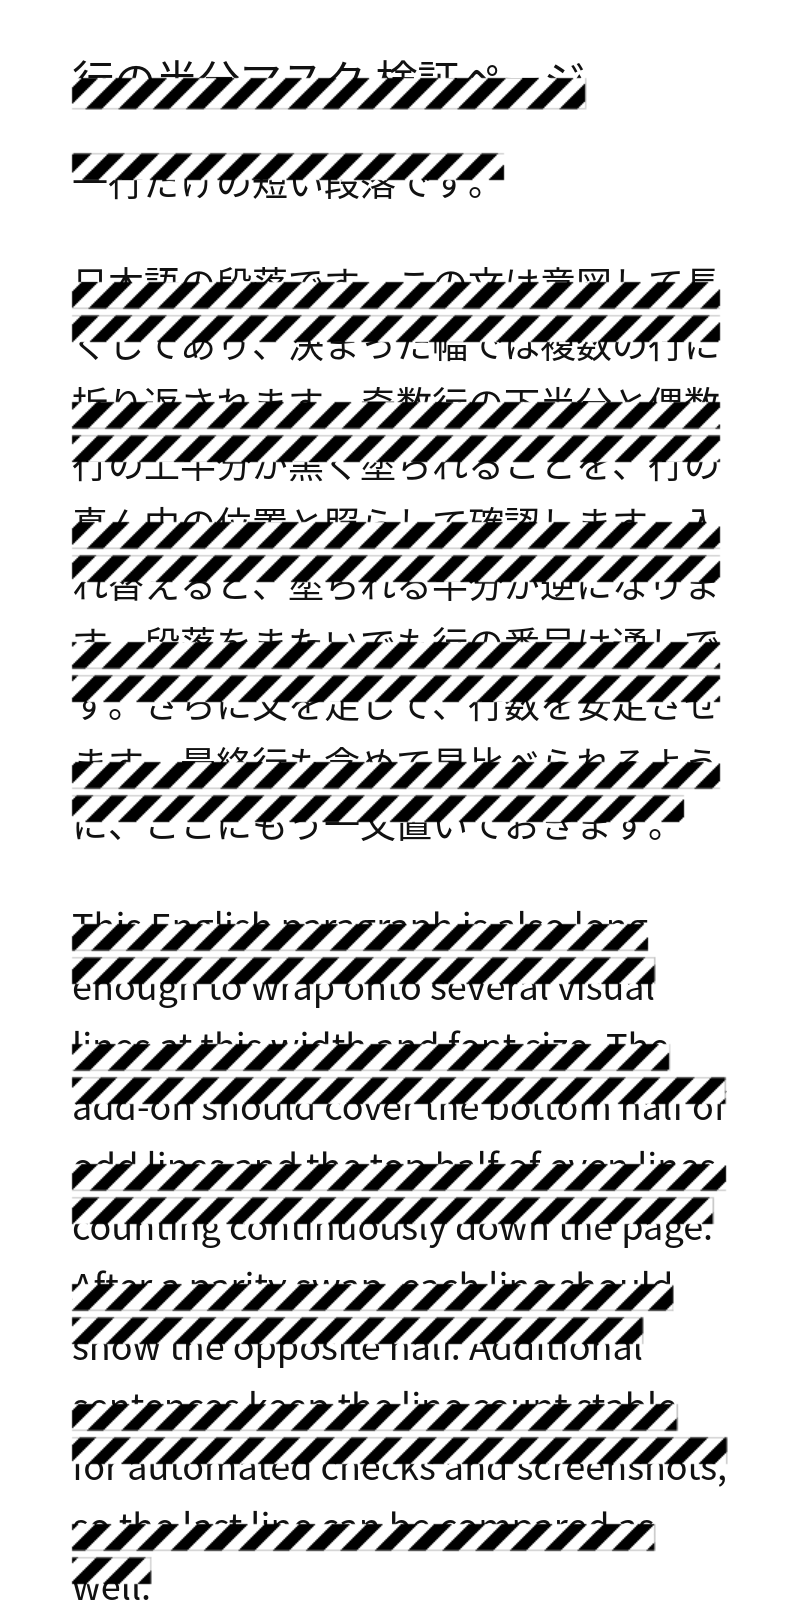
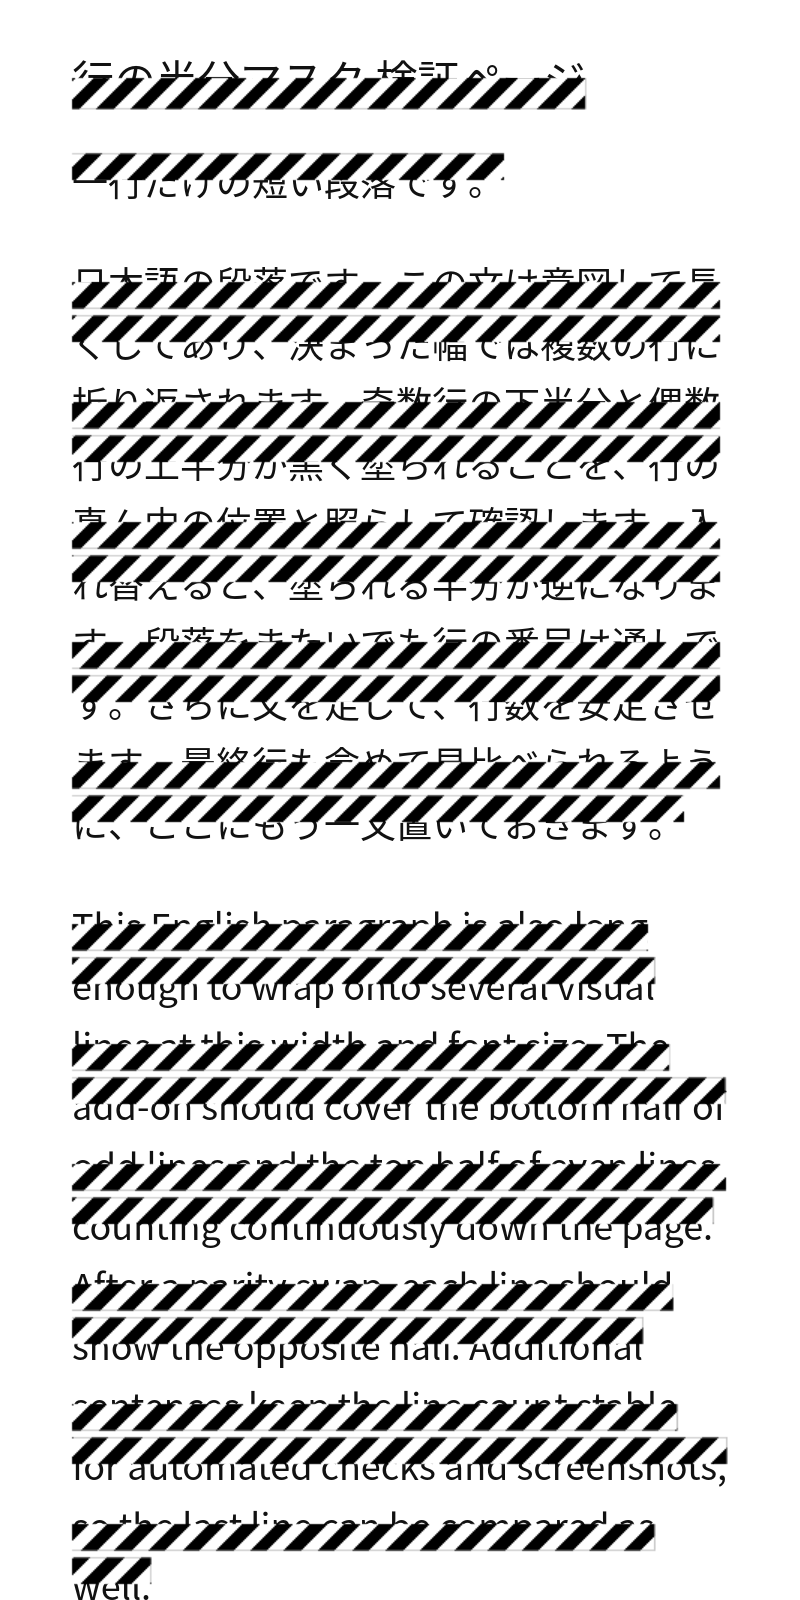
LineHalfMask 0.4.2
Clear the page selection when selection-mode masking starts.
Always move stripes along their normal, with a random left/right
when tilt is random. Replace one width with independent white
and black widths.

diff --git a/src/content.js b/src/content.js
@@ -6,8 +6,8 @@
   const api = typeof browser !== "undefined" ? browser : typeof chrome !== "undefined" ? chrome : null;
   const ROOT_ID = "line-half-mask-root";
   const Z = "2147483647";
-  // 既定は 45度の縞（黒8px＋白8px）、速さ約 30px/s。幅と速さはポップアップで変えられる。
-  // 流れは canvas を毎フレーム描き直す。OS の動きを減らす設定は無視する。
+  // 既定は 45度の縞（白8px＋黒8px）、速さ約 30px/s。白と黒の幅と速さはポップアップで変えられる。
+  // 流れは常に縞の法線方向。canvas を毎フレーム描き直す。OS の動きを減らす設定は無視する。
   const WIDTH_MIN = 1;
   const WIDTH_MAX = 16;
   const WIDTH_DEFAULT = 8;
@@ -15,7 +15,7 @@
   const SPEED_MAX = 60;
   const SPEED_DEFAULT = 30;
   const DEFAULT_STRIPE_ANGLE = -Math.PI / 4;
-  const DEFAULT_FLOW_ANGLE = Math.PI / 4;
+  const DEFAULT_FLOW_SIGN = 1;
   const SEL_SWAP_MS = 3000;
   const RATIO_MIN = 50;
   const RATIO_MAX = 90;
@@ -52,12 +52,12 @@
   let clickBound = false;
   let fakeTimers = null;
   let capturedRanges = [];
-  let stripeWidth = WIDTH_DEFAULT;
+  let stripeWhite = WIDTH_DEFAULT;
+  let stripeBlack = WIDTH_DEFAULT;
   let stripeSpeed = SPEED_DEFAULT;
   let randomAngle = false;
-  let randomDir = false;
   let stripeAngle = DEFAULT_STRIPE_ANGLE;
-  let flowAngle = DEFAULT_FLOW_ANGLE;
+  let flowSign = DEFAULT_FLOW_SIGN;
 
   function clampRatio(v) {
     const n = Math.round(Number(v));
@@ -85,19 +85,28 @@
 
   function toBool(v) { return v === true || v === "true" || v === 1 || v === "1"; }
 
-  function stripePeriod() { return stripeWidth * 2; }
+  function stripePeriod() { return stripeWhite + stripeBlack; }
 
   function rollStripeStyle() {
-    stripeAngle = randomAngle ? Math.random() * Math.PI : DEFAULT_STRIPE_ANGLE;
-    flowAngle = randomDir ? Math.random() * Math.PI * 2 : DEFAULT_FLOW_ANGLE;
+    if (randomAngle) {
+      stripeAngle = Math.random() * Math.PI;
+      flowSign = Math.random() < 0.5 ? -1 : 1;
+    } else {
+      stripeAngle = DEFAULT_STRIPE_ANGLE;
+      flowSign = DEFAULT_FLOW_SIGN;
+    }
   }
 
   function applyStripePrefs(prefs, reroll) {
     if (!prefs) prefs = {};
     let changed = false;
-    if (Object.prototype.hasOwnProperty.call(prefs, "stripeWidth")) {
-      const w = clampWidth(prefs.stripeWidth);
-      if (w !== stripeWidth) { stripeWidth = w; changed = true; }
+    if (Object.prototype.hasOwnProperty.call(prefs, "stripeWhite")) {
+      const w = clampWidth(prefs.stripeWhite);
+      if (w !== stripeWhite) { stripeWhite = w; changed = true; }
+    }
+    if (Object.prototype.hasOwnProperty.call(prefs, "stripeBlack")) {
+      const w = clampWidth(prefs.stripeBlack);
+      if (w !== stripeBlack) { stripeBlack = w; changed = true; }
     }
     if (Object.prototype.hasOwnProperty.call(prefs, "stripeSpeed")) {
       const s = clampSpeed(prefs.stripeSpeed);
@@ -107,13 +116,18 @@
       const v = toBool(prefs.randomAngle);
       if (v !== randomAngle) { randomAngle = v; changed = true; reroll = true; }
     }
-    if (Object.prototype.hasOwnProperty.call(prefs, "randomDir")) {
-      const v = toBool(prefs.randomDir);
-      if (v !== randomDir) { randomDir = v; changed = true; reroll = true; }
-    }
     if (reroll) rollStripeStyle();
     if ((changed || reroll) && (on || selectionOn)) update();
     if (changed) reportState();
+  }
+
+  function setStripeStyle(opts) {
+    if (!opts) return;
+    if (opts.stripeAngle != null && Number.isFinite(Number(opts.stripeAngle))) {
+      stripeAngle = Number(opts.stripeAngle);
+    }
+    if (opts.flowSign != null) flowSign = Number(opts.flowSign) < 0 ? -1 : 1;
+    if (on || selectionOn) update();
   }
 
   function reportState() {
@@ -122,7 +136,7 @@
       api.runtime.sendMessage({
         type: "state",
         on, parity, ratio, selectionOn, selParity,
-        stripeWidth, stripeSpeed, randomAngle, randomDir
+        stripeWhite, stripeBlack, stripeSpeed, randomAngle, flowSign
       });
     } catch (_) {}
   }
@@ -443,8 +457,7 @@
       c.rect(m.left / s, m.top / s, m.width / s, m.height / s);
     }
     c.clip();
-    // 進行方向のうち、縞の周期軸への射影だけを進めて折り返す。
-    // 縞に沿った成分は見た目が変わらないので、飛びのない周期送りになる。
+    // 流れは常に縞の法線（周期軸）。その成分だけを周期で折り返すので継ぎ目が出ない。
     const period = stripePeriod();
     const ax = -Math.sin(stripeAngle);
     const ay = Math.cos(stripeAngle);
@@ -459,9 +472,9 @@
     c.fillStyle = "#000";
     c.fillRect(x0, y0, w, h);
     c.fillStyle = "#fff";
-    const yStart = Math.floor(y0 / period) * period + stripeWidth;
+    const yStart = Math.floor(y0 / period) * period + stripeBlack;
     for (let y = yStart; y < y0 + h; y += period) {
-      c.fillRect(x0, y, w, stripeWidth);
+      c.fillRect(x0, y, w, stripeWhite);
     }
     c.restore();
   }
@@ -479,11 +492,7 @@
     c.clearRect(0, 0, innerWidth, innerHeight);
     if (!lastMasks.length) return;
     const along = (flowElapsed(now) / 1000) * stripeSpeed;
-    const ax = -Math.sin(stripeAngle);
-    const ay = Math.cos(stripeAngle);
-    const fx = Math.cos(flowAngle);
-    const fy = Math.sin(flowAngle);
-    const d = along * (fx * ax + fy * ay);
+    const d = along * flowSign;
     drawStripes(c, d);
   }
 
@@ -781,10 +790,19 @@
     return saved;
   }
 
+  function clearPageSelection() {
+    try {
+      const sel = window.getSelection && window.getSelection();
+      if (sel && sel.removeAllRanges) sel.removeAllRanges();
+    } catch (_) {}
+  }
+
   function maskSelection() {
     const ranges = rangesForMask();
     if (!ranges.length) return false;
     selRanges = ranges;
+    // 青の選択ハイライトが残らないよう、範囲を確保したあとで外す。
+    clearPageSelection();
     selectionOn = true;
     selParity = 0;
     rollStripeStyle();
@@ -840,12 +858,12 @@
         applyStripePrefs(msg, false);
         return Promise.resolve({
           on, parity, ratio, selectionOn, selParity,
-          stripeWidth, stripeSpeed, randomAngle, randomDir, stripeAngle, flowAngle
+          stripeWhite, stripeBlack, stripeSpeed, randomAngle, stripeAngle, flowSign
         });
       } else if (msg.type === "state") {
         return Promise.resolve({
           on, parity, ratio, selectionOn, selParity,
-          stripeWidth, stripeSpeed, randomAngle, randomDir
+          stripeWhite, stripeBlack, stripeSpeed, randomAngle, flowSign
         });
       }
     });
@@ -861,7 +879,7 @@
     getState() {
       return {
         on, parity, ratio, flowPaused, selectionOn, selParity,
-        stripeWidth, stripeSpeed, randomAngle, randomDir, stripeAngle, flowAngle
+        stripeWhite, stripeBlack, stripeSpeed, randomAngle, stripeAngle, flowSign
       };
     },
     collect,
@@ -874,12 +892,14 @@
     clampSpeed,
     applyStripePrefs,
     rollStripeStyle,
+    setStripeStyle,
     maskSelection,
     endSelection,
     captureSelection,
     useFakeTimers,
     advanceFakeTimers,
-    get STRIPE_BAR() { return stripeWidth; },
+    get STRIPE_WHITE() { return stripeWhite; },
+    get STRIPE_BLACK() { return stripeBlack; },
     get STRIPE_PERIOD() { return stripePeriod(); },
     get STRIPE_SPEED() { return stripeSpeed; },
     SEL_SWAP_MS,
@@ -892,19 +912,21 @@
 
   function bindStorage() {
     if (!api || !api.storage || !api.storage.local) return;
-    const keys = ["ratio", "stripeWidth", "stripeSpeed", "randomAngle", "randomDir"];
+    const keys = ["ratio", "stripeWhite", "stripeBlack", "stripeSpeed", "randomAngle"];
     try {
       api.storage.local.get(keys).then((res) => {
         if (!res) return;
         if (res.ratio != null) setRatio(res.ratio);
-        applyStripePrefs({
-          stripeWidth: res.stripeWidth,
-          stripeSpeed: res.stripeSpeed,
-          randomAngle: res.randomAngle,
-          randomDir: res.randomDir,
-        }, false);
-        if (!randomAngle) stripeAngle = DEFAULT_STRIPE_ANGLE;
-        if (!randomDir) flowAngle = DEFAULT_FLOW_ANGLE;
+        const prefs = {};
+        if (res.stripeWhite != null) prefs.stripeWhite = res.stripeWhite;
+        if (res.stripeBlack != null) prefs.stripeBlack = res.stripeBlack;
+        if (res.stripeSpeed != null) prefs.stripeSpeed = res.stripeSpeed;
+        if (res.randomAngle != null) prefs.randomAngle = res.randomAngle;
+        applyStripePrefs(prefs, false);
+        if (!randomAngle) {
+          stripeAngle = DEFAULT_STRIPE_ANGLE;
+          flowSign = DEFAULT_FLOW_SIGN;
+        }
       }).catch(() => {});
     } catch (_) {}
     if (api.storage.onChanged) {
@@ -916,7 +938,7 @@
         }
         const prefs = {};
         let any = false;
-        for (const k of ["stripeWidth", "stripeSpeed", "randomAngle", "randomDir"]) {
+        for (const k of ["stripeWhite", "stripeBlack", "stripeSpeed", "randomAngle"]) {
           if (Object.prototype.hasOwnProperty.call(changes, k)) {
             prefs[k] = changes[k] && changes[k].newValue;
             any = true;

diff --git a/src/popup.js b/src/popup.js
@@ -210,10 +210,10 @@ ratioInput.addEventListener("keydown", (e) => {
   }
 });
 
-const widthInput = document.getElementById("stripe-width");
+const whiteInput = document.getElementById("stripe-white");
+const blackInput = document.getElementById("stripe-black");
 const speedInput = document.getElementById("stripe-speed");
 const angleInput = document.getElementById("random-angle");
-const dirInput = document.getElementById("random-dir");
 
 function clampWidth(v) {
   const n = Math.round(Number(v));
@@ -232,32 +232,33 @@ function clampSpeed(v) {
 }
 
 async function loadStripe() {
-  let width = 8, speed = 30, randomAngle = false, randomDir = false;
+  let white = 8, black = 8, speed = 30, randomAngle = false;
   try {
     if (api.storage && api.storage.local) {
-      const res = await api.storage.local.get(["stripeWidth", "stripeSpeed", "randomAngle", "randomDir"]);
+      const res = await api.storage.local.get(["stripeWhite", "stripeBlack", "stripeSpeed", "randomAngle"]);
       if (res) {
-        if (res.stripeWidth != null) width = clampWidth(res.stripeWidth);
+        if (res.stripeWhite != null) white = clampWidth(res.stripeWhite);
+        if (res.stripeBlack != null) black = clampWidth(res.stripeBlack);
         if (res.stripeSpeed != null) speed = clampSpeed(res.stripeSpeed);
         randomAngle = !!res.randomAngle;
-        randomDir = !!res.randomDir;
       }
     }
   } catch (_) {}
-  widthInput.value = String(width);
+  whiteInput.value = String(white);
+  blackInput.value = String(black);
   speedInput.value = String(speed);
   angleInput.checked = randomAngle;
-  dirInput.checked = randomDir;
 }
 
 async function commitStripe() {
   const prefs = {
-    stripeWidth: clampWidth(widthInput.value),
+    stripeWhite: clampWidth(whiteInput.value),
+    stripeBlack: clampWidth(blackInput.value),
     stripeSpeed: clampSpeed(speedInput.value),
     randomAngle: !!angleInput.checked,
-    randomDir: !!dirInput.checked,
   };
-  widthInput.value = String(prefs.stripeWidth);
+  whiteInput.value = String(prefs.stripeWhite);
+  blackInput.value = String(prefs.stripeBlack);
   speedInput.value = String(prefs.stripeSpeed);
   try {
     if (api.storage && api.storage.local) await api.storage.local.set(prefs);
@@ -271,11 +272,11 @@ function bindStripeField(el, evs) {
   for (const ev of evs) el.addEventListener(ev, commitStripe);
 }
 
-bindStripeField(widthInput, ["change", "blur"]);
+bindStripeField(whiteInput, ["change", "blur"]);
+bindStripeField(blackInput, ["change", "blur"]);
 bindStripeField(speedInput, ["change", "blur"]);
 angleInput.addEventListener("change", commitStripe);
-dirInput.addEventListener("change", commitStripe);
-for (const el of [widthInput, speedInput]) {
+for (const el of [whiteInput, blackInput, speedInput]) {
   el.addEventListener("keydown", (e) => {
     if (e.key === "Enter") {
       e.preventDefault();

diff --git a/src/popup.html b/src/popup.html
@@ -104,10 +104,14 @@
   </label>
   <p class="note">50 から 90 までの整数です。</p>
   <label class="stripe">
-    <span>縞の幅（ピクセル）</span>
-    <input id="stripe-width" type="number" min="1" max="16" step="1" value="8">
+    <span>白の幅（ピクセル）</span>
+    <input id="stripe-white" type="number" min="1" max="16" step="1" value="8">
   </label>
-  <p class="note">1 から 16 までの整数です。</p>
+  <label class="stripe">
+    <span>黒の幅（ピクセル）</span>
+    <input id="stripe-black" type="number" min="1" max="16" step="1" value="8">
+  </label>
+  <p class="note">それぞれ 1 から 16 までの整数です。</p>
   <label class="stripe">
     <span>速さ（ピクセル毎秒）</span>
     <input id="stripe-speed" type="number" min="0" max="60" step="1" value="30">
@@ -115,12 +119,9 @@
   <p class="note">0 から 60 までの整数です。0 で止まります。</p>
   <label class="check">
     <input id="random-angle" type="checkbox">
-    <span>線の傾きをランダム</span>
+    <span>線の傾きと流れの左右をランダム</span>
   </label>
-  <label class="check">
-    <input id="random-dir" type="checkbox">
-    <span>進む向きをランダム</span>
-  </label>
+  <p class="note">オフのときは 45 度で、縞を横切る向きに進みます。オンのときは傾きと、法線の左右がランダムになります。</p>
   <section id="shortcuts" hidden>
     <h2>ショートカット</h2>
     <label class="shortcut">

diff --git a/README.md b/README.md
@@ -9,11 +9,11 @@
 
 オンとオフ、塗りの入れ替えは、ツールバー（Android ではメニューのアドオン）を開いてボタンで操作します。パソコンではキーボードでも操作できます。ショートカットは、ツールバーのポップアップで入力欄に実際のキーを押して設定できます。既定は Alt+Shift+L（オンオフ）と Alt+Shift+K（入れ替え）です。「既定に戻す」で元に戻せます。タッチ端末では、オンのときに3本指で短くタップすると入れ替わります。指が1本ずつ着いても認識します。2本指の拡大縮小や、指を動かしたスクロールでは反応しません。端末が3本指をスクリーンショットなどに使う場合は、2本指で続けて2回タップしても入れ替わります。
 
-現在のソースは 0.4.1 です。こちらはパソコン向けの試作で、塗りの部分は白黒の斜め縞です。縞の幅（1〜16px、既定 8px）と速さ（0〜60px/秒、既定 30px/秒）はポップアップで変えられます。0 にすると止まります。縞は OS の動きを減らす設定でも流れます。マスクの割合は 50 から 90 パーセントで、同じポップアップから変えられます。51 にすると、どの行も中央の 2 パーセントは通常でも入れ替えでも隠れます。
+現在のソースは 0.4.2 です。こちらはパソコン向けの試作で、塗りの部分は白黒の斜め縞です。白の幅と黒の幅（それぞれ 1〜16px、既定はどちらも 8px）と速さ（0〜60px/秒、既定 30px/秒）はポップアップで変えられます。たとえば白 2px・黒 1px にもできます。0 にすると止まります。縞は常に法線方向（縞を横切る向き）に流れ、周期で折り返すので継ぎ目は出ません。OS の動きを減らす設定でも流れます。マスクの割合は 50 から 90 パーセントで、同じポップアップから変えられます。51 にすると、どの行も中央の 2 パーセントは通常でも入れ替えでも隠れます。
 
-「線の傾きをランダム」と「進む向きをランダム」は別々にオンにできます。オフのときは、傾きは 45 度、進む向きは縞を横切る既定の方向です。オンのとき、傾き（0〜180 度）と進む向き（全方位）は独立に決まります。進む向きが縞に沿うと、見た目の流れは遅くなったり止まって見えたりします。ランダムは、マスクを始めたとき、選択範囲モードの 3 秒ごとの自動入れ替え、手動の入れ替え、ランダム設定をオンにしたときに引き直します。同じマスクを表示したままでは変わりません。
+「線の傾きと流れの左右をランダム」をオフにすると、傾きは 45 度、進む向きは従来どおり縞を横切る方向です。オンにすると、傾き（0〜180 度）と、法線の左右（どちら向きに進むか）がランダムになります。ランダムは、マスクを始めたとき、選択範囲モードの 3 秒ごとの自動入れ替え、手動の入れ替え、ランダム設定をオンにしたときに引き直します。同じマスクを表示したままでは変わりません。
 
-パソコンでは、テキストを選択してコンテキストメニューの「選択範囲だけマスク」を選ぶと、その選択が乗っている視覚行だけを塗ります。塗る横幅は行箱全体ではなく、選択された範囲の横幅です。このモードでは 3 秒ごとに塗る半分が自動で入れ替わります。マスクしていないところをクリックすると終わります（クリック自体は通常どおり届きます）。ページ全体のマスクがオンでも、選択範囲モードが一時的にそれに取って代わり、終わると元に戻ります。このメニューは menus API が使えるパソコン向けです。Android では出ません。0.4.0 では、メニューを確定したときに選択が消えると動かないことがありました。0.4.1 では、右クリックの時点の選択を保持し、content script がまだ入っていないタブには注入してから実行します。
+パソコンでは、テキストを選択してコンテキストメニューの「選択範囲だけマスク」を選ぶと、その選択が乗っている視覚行だけを塗ります。塗る横幅は行箱全体ではなく、選択された範囲の横幅です。マスクを始めると、ページ上の選択（青いハイライト）は外れます。このモードでは 3 秒ごとに塗る半分が自動で入れ替わります。マスクしていないところをクリックすると終わります（クリック自体は通常どおり届きます）。ページ全体のマスクがオンでも、選択範囲モードが一時的にそれに取って代わり、終わると元に戻ります。このメニューは menus API が使えるパソコン向けです。Android では出ません。0.4.0 では、メニューを確定したときに選択が消えると動かないことがありました。0.4.1 以降は、右クリックの時点の選択を保持し、content script がまだ入っていないタブには注入してから実行します。
 
 | 操作 | パソコン | タッチ |
 | --- | --- | --- |
@@ -40,18 +40,18 @@
 
 Firefox を終了しても、署名済みのアドオンは入ったままです。
 
-### 未署名の 0.4.1（縞が流れる試作）
+### 未署名の 0.4.2（縞が流れる試作）
 
-[v0.4.1](https://github.com/zmlworks/line-half-mask/releases/tag/v0.4.1) は未署名の試作です。AMO には提出していません。公開版の Firefox には常設できず、公開版の Firefox for Android にも入りません。パソコンでは、次の一時的な読み込みで試せます。
+[v0.4.2](https://github.com/zmlworks/line-half-mask/releases/tag/v0.4.2) は未署名の試作です。AMO には提出していません。公開版の Firefox には常設できず、公開版の Firefox for Android にも入りません。パソコンでは、次の一時的な読み込みで試せます。
 
-1. リリースの `line-half-mask-0.4.1.xpi` を展開するか、このリポジトリの `src/manifest.json` を使います。
+1. リリースの `line-half-mask-0.4.2.xpi` を展開するか、このリポジトリの `src/manifest.json` を使います。
 2. Firefox で `about:debugging` を開きます。
 3. 「この Firefox」を選び、「一時的なアドオンを読み込む」を押します。
 4. `src/manifest.json` を選択します。
 
 Firefox を終了すると外れます。読み込んだあと、開いているタブは再読み込みしてください。
 
-Android で 0.4.1 を試す場合は、Firefox Nightly（または Beta）を入れ、パソコンと USB でつなぎます。Android 側で「USB によるリモートデバッグ」をオンにし、パソコンの Firefox で `about:debugging` を開いて端末を選び、「一時的なアドオンを読み込む」か、パソコンから `web-ext run -t firefox-android` で一時的に読み込みます。端末を離すか Firefox を終了すると外れます。
+Android で 0.4.2 を試す場合は、Firefox Nightly（または Beta）を入れ、パソコンと USB でつなぎます。Android 側で「USB によるリモートデバッグ」をオンにし、パソコンの Firefox で `about:debugging` を開いて端末を選び、「一時的なアドオンを読み込む」か、パソコンから `web-ext run -t firefox-android` で一時的に読み込みます。端末を離すか Firefox を終了すると外れます。
 
 入れたあとは、同じポップアップの「塗りを入れ替え」か、画面を3本指で短くタップします。端末が3本指を別の操作に使うときは、2本指で続けて2回タップしてください。
 
@@ -73,10 +73,10 @@ npx web-ext lint -s src
 ## ビルド
 
 ```sh
-cd src && zip -r -X ../line-half-mask-0.4.1.zip .
+cd src && zip -r -X ../line-half-mask-0.4.2.zip .
 ```
 
-`line-half-mask-0.4.1.xpi` は同じ中身です。署名はありません。0.3.x および 0.4.x は AMO に提出していません。
+`line-half-mask-0.4.2.xpi` は同じ中身です。署名はありません。0.3.x および 0.4.x は AMO に提出していません。
 
 ## 制限
 
